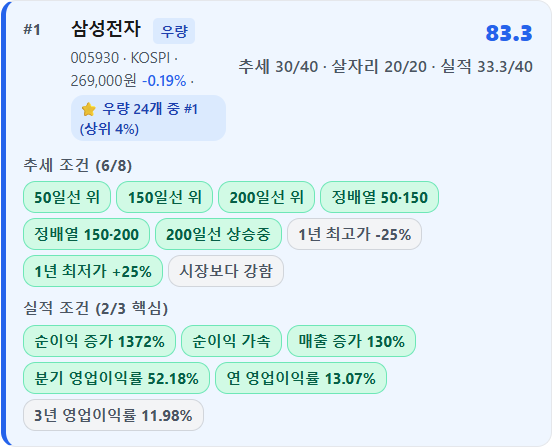
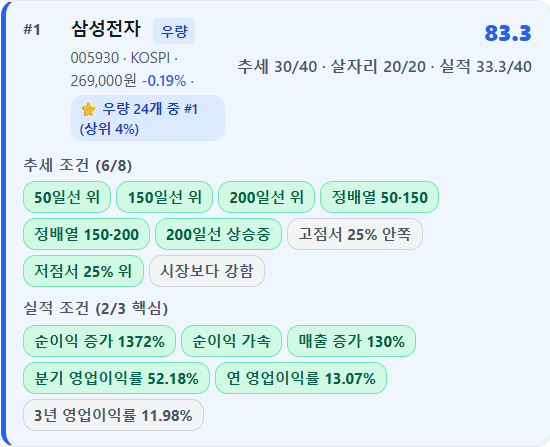
feat: 뱃지 문구를 바로잡고 글을 읽기 좋게 끊는다
뱃지에서 뜻이 뒤집혀 읽히던 것을 고친다.

'1년 최고가 -25%' 는 실제로는 고점 근처라는 좋은 신호인데 '25%
떨어졌다' 로 읽힌다. '고점서 25% 안쪽' 으로 바꾼다. '1년 최저가
+25%' 도 '저점서 25% 위' 로 바꾼다. 둘 다 글자 수는 오히려 줄었다.
칩이 길어지면 줄이 지저분해진다는 기존 원칙을 지킨다.

거래량 배수의 x 는 곱하기로 안 읽힌다. '5.55배' 로 바꾼다.
정배열·이평선은 그대로 둔다. 40~70대가 이미 쓰는 말이다.

큐에 있는 글 16건은 줄바꿈만 손본다. 내용과 문장은 그대로 두고
의미 단위로 끊었다. 쓰레드 인기 글을 19건 재보니 한 줄 19~25자,
가장 긴 줄 33자였다. 한 줄이 46자 넘는 글은 좋아요가 한 자리로
떨어졌다. 기존 글은 한 줄 평균 43자에 최장 118자였다. 이제 16건
모두 최장 33자 안에 든다. 길이가 아니라 줄바꿈이 문제였다.

카드 문구의 strict/strong 도 엄격/우량으로 바꾼다.

Claude-Session: https://claude.ai/code/session_01Bs2hnehKA4YmAiekijyLHC

diff --git a/index.html b/index.html
@@ -4043,8 +4043,8 @@ function mvTtChips(tt) {
     ['정배열 50·150', tt.ma50_above_ma150],
     ['정배열 150·200', tt.ma150_above_ma200],
     ['200일선 상승중', tt.ma200_uptrend],
-    ['1년 최고가 -25%', tt.within_25pct_of_52w_high],
-    ['1년 최저가 +25%', tt.above_25pct_from_52w_low],
+    ['고점서 25% 안쪽', tt.within_25pct_of_52w_high],
+    ['저점서 25% 위', tt.above_25pct_from_52w_low],
     ['시장보다 강함', tt.rs_rating_70plus],
   ];
 }
@@ -4082,7 +4082,7 @@ function momTechChips(r) {
     [r.ma200_cross_days_ago ? `200일선 ${r.ma200_cross_days_ago}일전 돌파` : '200일선 돌파', r.ma200_cross_recent],
     ['변동폭 줄어듦', r.vcp_contracting],
     ['10일 눌림', r.tight_action],
-    [`거래량 ${r.vol_ratio}x`, r.volume_surge_2x],
+    [`거래량 ${r.vol_ratio}배`, r.volume_surge_2x],
     ['매수 자리 돌파', r.pivot_breakout],
     ['저점 높아짐', r.higher_lows],
   ];
@@ -4091,7 +4091,7 @@ function momTechChips(r) {
 function momFlowChips(r) {
   r = r || {};
   return [
-    [`거래량 ${r.vol_ratio}x`, r.volume_surge_15x],
+    [`거래량 ${r.vol_ratio}배`, r.volume_surge_15x],
     // W는 테마 가중치의 약자였다. 보는 사람에게는 뜻이 없는 글자다.
     [`테마 강세 (강도 ${r.theme_weight})`, r.theme_rising],
     [`조용하다 거래량 터짐 🤫`, r.pocket_pivot],

diff --git a/scripts/make_promo_cards.py b/scripts/make_promo_cards.py
@@ -91,7 +91,7 @@ CARDS = {
             {"label": "52주 고점 대비", "value": "25% 이내"},
             {"label": "시장 대비 강도", "value": "전 종목 상위 30%"},
         ],
-        "highlight": "8개를 다 통과하면 strict, 6개 이상에 실적까지 붙으면 strong으로 나옵니다.",
+        "highlight": "8개를 다 통과하면 '엄격', 6개 이상에 실적까지 붙으면 '우량'으로 나옵니다.",
         "handle": HANDLE,
         "tagline": TAGLINE,
     },
